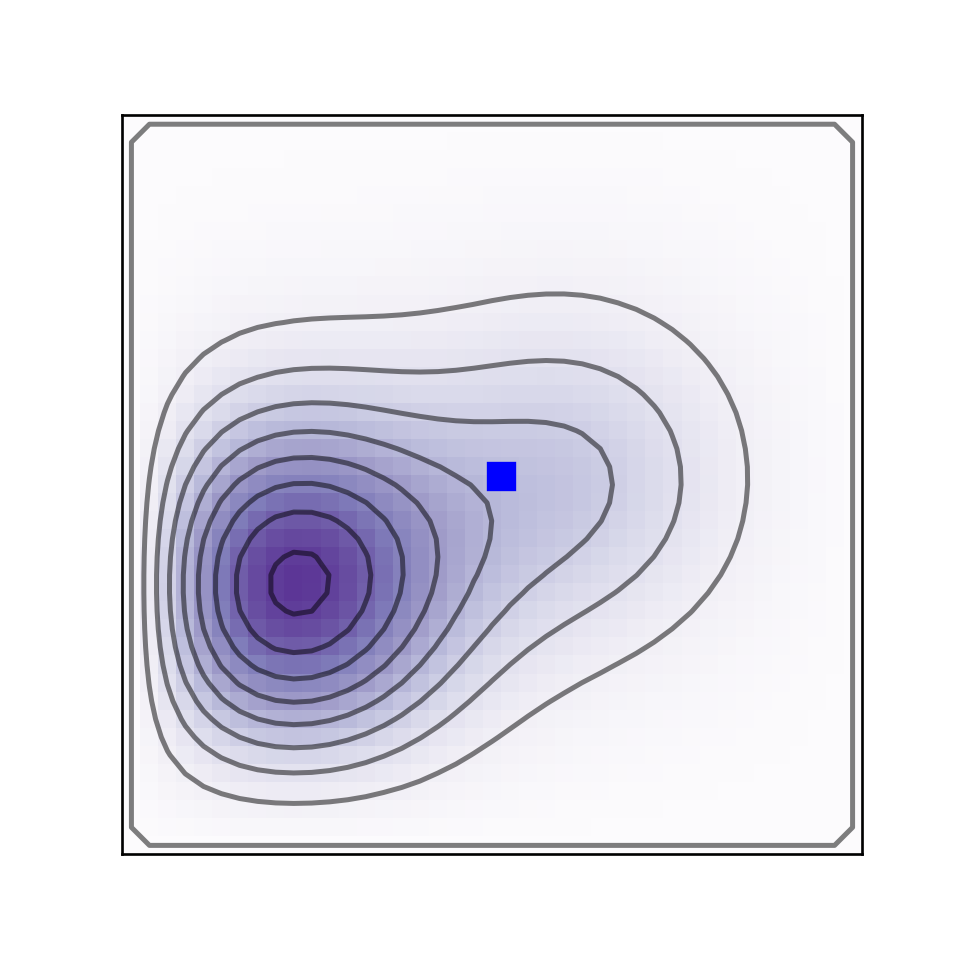
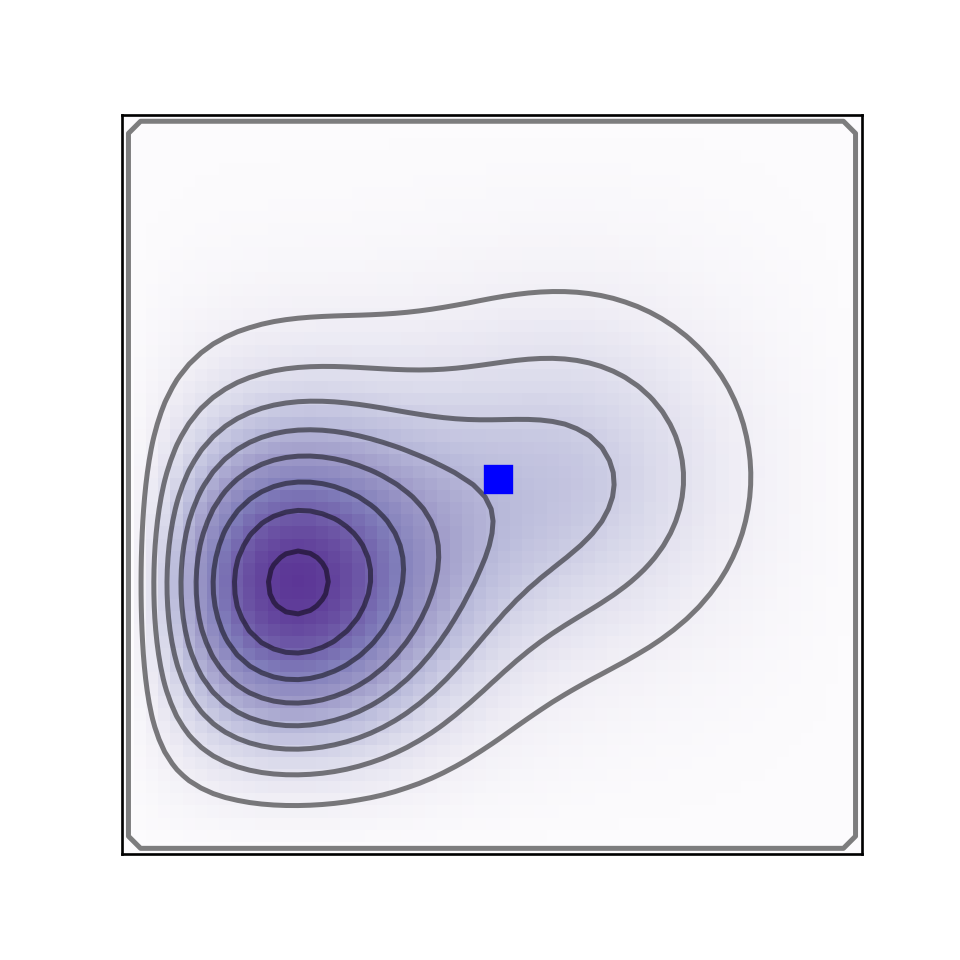
update to bfgs finite-diff for numpy method

diff --git a/advection_diffusion.py b/advection_diffusion.py
@@ -18,14 +18,14 @@ Philip Mocz (2024), @PMocz
 
 Solve the advection-diffusion equation using a finite difference method
 Plug it into an optimization problem to find the wind parameters that maximize pollution at the center of the domain
-Use either gradient-free Nelder-Mead (Numpy/SciPy) or autodiff (JAX) to solve the optimization problem
+Use either 'L-BFGS-B' method with finite difference gradient estimates (Numpy/SciPy) or autodiff (JAX) to solve the optimization problem
 """
 
 # Global variables
 W = 0.5
 diffusivity = 0.05
 t_end = 0.25
-N = 81
+N = 61
 M = 50
 dx = 1.0 / (N-1)
 dt = t_end / M
@@ -194,7 +194,7 @@ def do_simulation_jax(x):
 
     # solve the system
     #U = jax.scipy.linalg.lu_solve(B, U)
-    U, _ = jax.scipy.sparse.linalg.cg(D, U)
+    U, _ = jax.scipy.sparse.linalg.cg(D, U, x0=U, tol=1e-8)
 
     # record pollution at center of domain
     pollution = pollution.at[i+1].set(U[ctr])
@@ -226,7 +226,7 @@ def main():
   # Optimize the wind parameters to find which values maximize the pollution
   print("=== Numpy Approach =======================================================")
   start = timeit.default_timer()
-  sol = minimize(loss, x0, args=({'Nfeval':0},), method='Nelder-Mead', tol=1e-8, bounds=bounds, options={'disp': True} )
+  sol = minimize(loss, x0, args=({'Nfeval':0},), method='L-BFGS-B', tol=1e-8, bounds=bounds, options={'disp': True} )
   print("Optimization process took:", timeit.default_timer() - start, "seconds")
   print('Number of iterations:', sol.nit)
   print('Optimized wind parameters:', '\033[1m', sol.x, '\033[0m')
@@ -234,11 +234,12 @@ def main():
   # Re-run the simulation with the optimized parameters and print the level of pollution
   start = timeit.default_timer()
   U, pollution, pollution_total = do_simulation(sol.x)
-  print("Single Numpy run took:", timeit.default_timer() - start, "seconds")
+  print("Single simulation eval took:", timeit.default_timer() - start, "seconds")
   print('Total pollution:', pollution_total)
 
   # Carry out simulation with the optimized parameters
   print("=== JAX Approach =========================================================")
+  #grad_sim = jax.grad(loss_jax)  # compute the gradient of the loss function
   start = timeit.default_timer()
   jbounds = [[0.0]*5, [np.pi]*5]
   optimizer = ScipyBoundedMinimize(fun=loss_jax, method='L-BFGS-B', tol = 1e-8, options={'disp': True})
@@ -250,7 +251,7 @@ def main():
   # Re-run the simulation with the optimized parameters and print the level of pollution
   start = timeit.default_timer()
   U, pollution, pollution_total = do_simulation_jax(sol_jax.params)
-  print("Single JAX run took:", timeit.default_timer() - start, "seconds")
+  print("Single simulation eval took:", timeit.default_timer() - start, "seconds")
   print('Total pollution:', pollution_total)
 
   # Plot the pollution as a function of time
